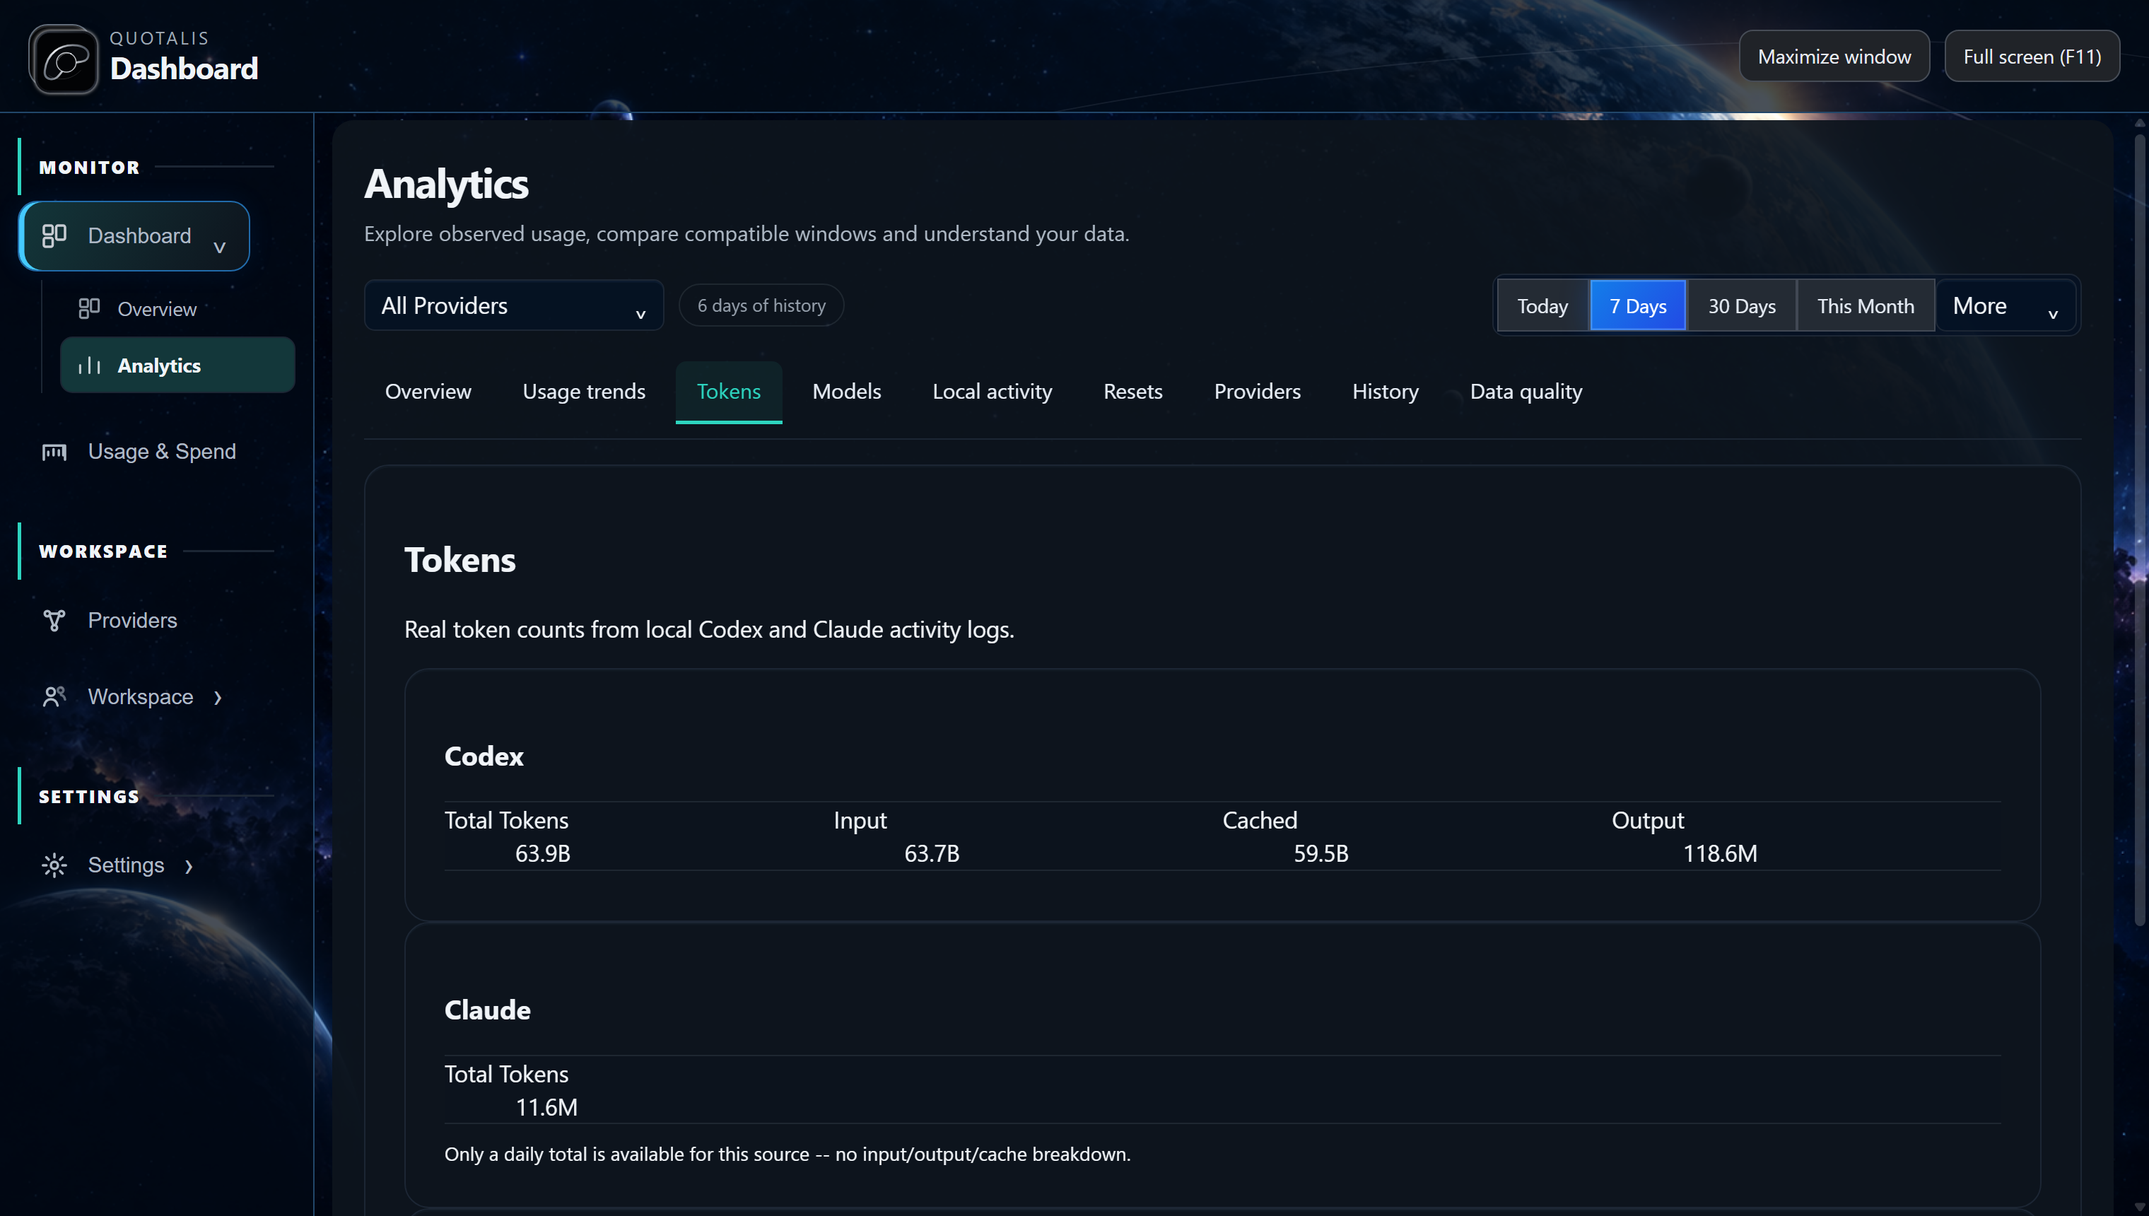
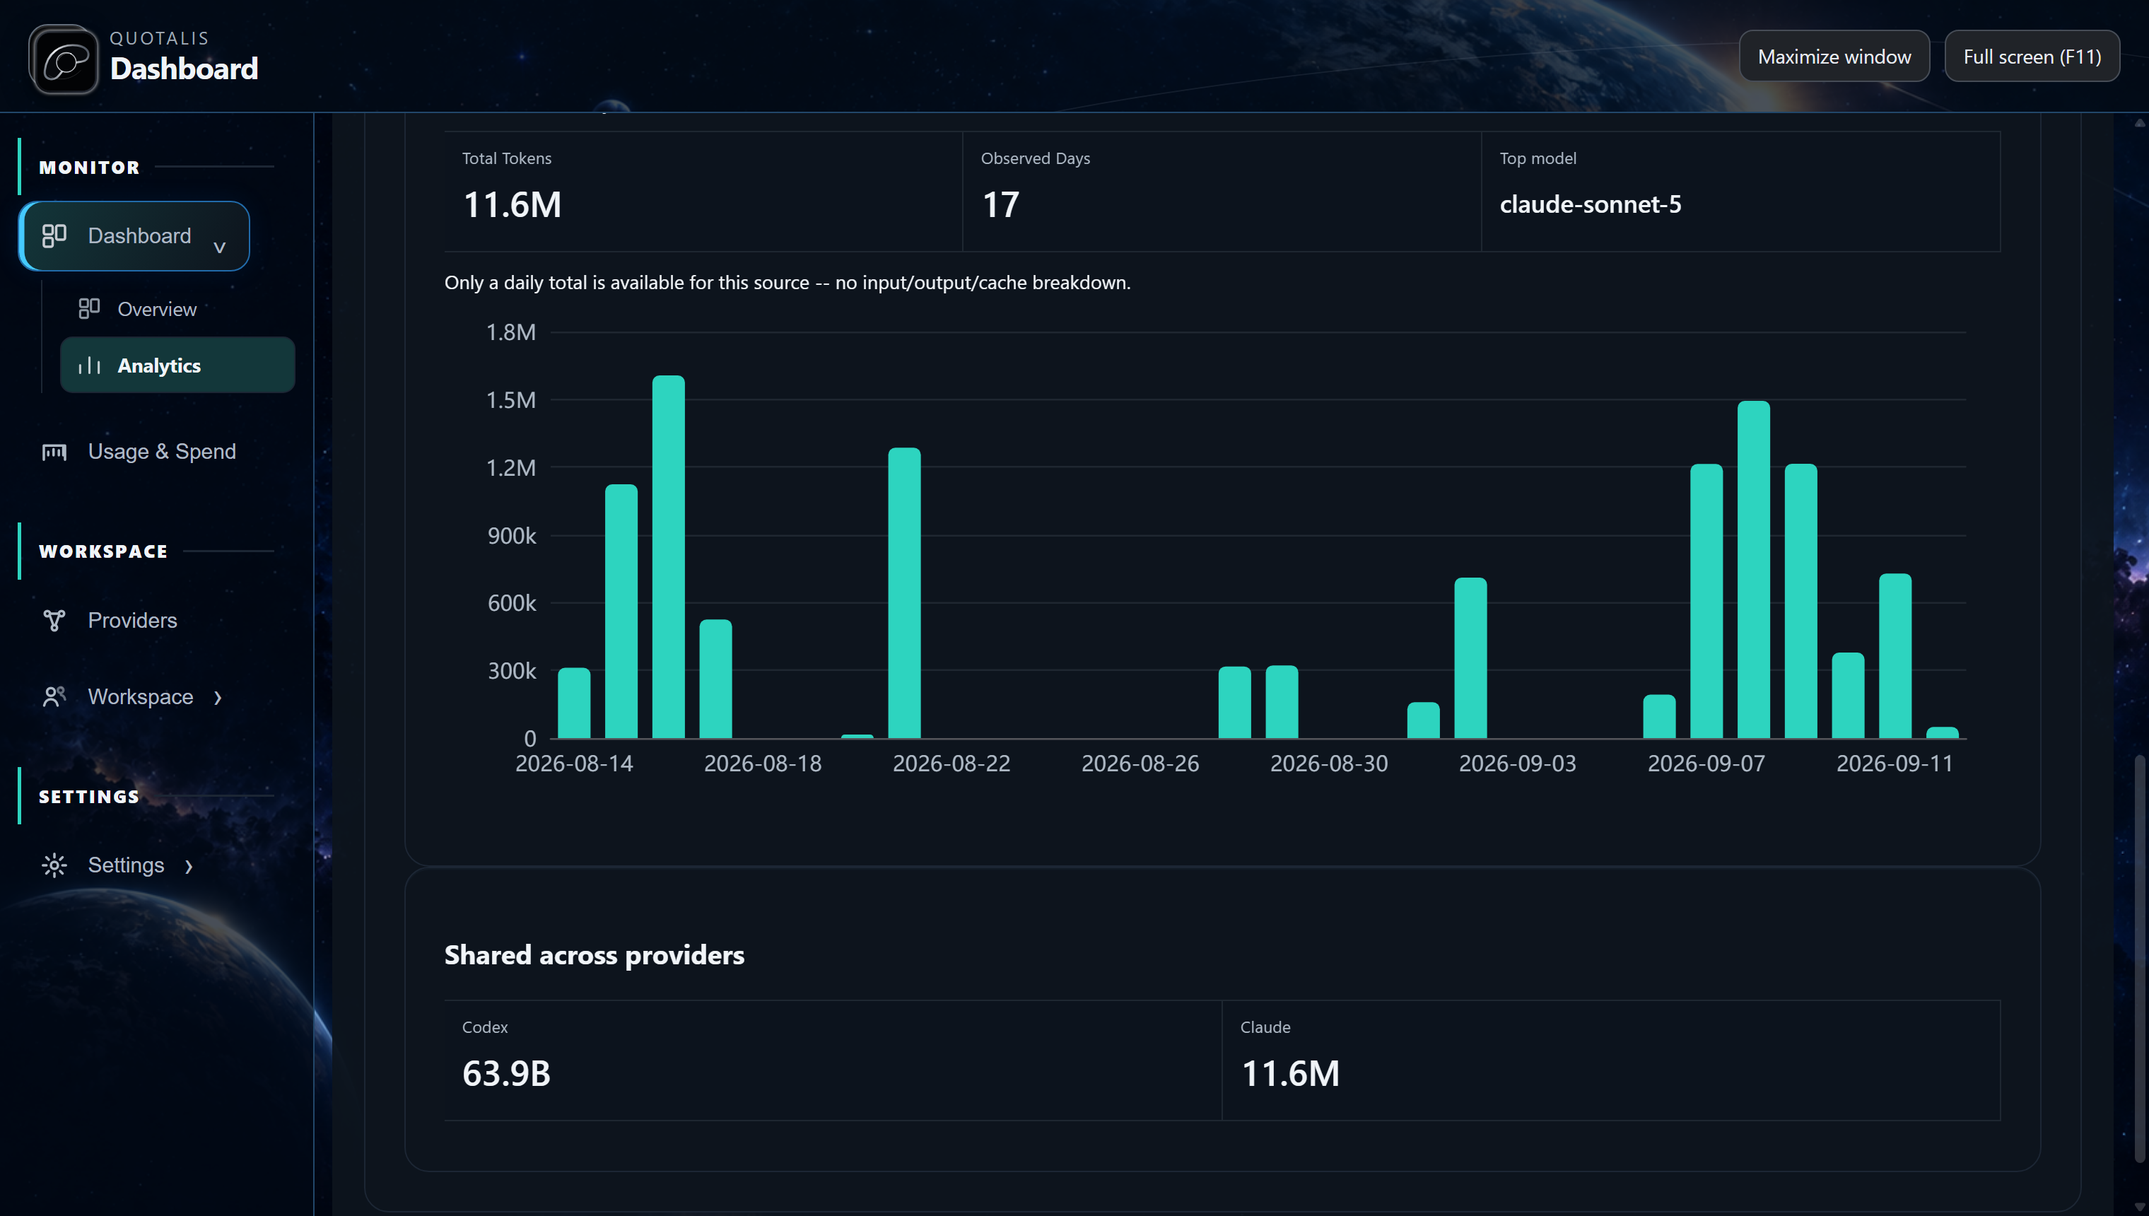
feat: evolve Token Analytics presentation
Root cause (same class as Overview, Phase 3I): TokenAnalytics.tsx's
ribbon cells were plain unstyled `<div>`s, never wired into the shared
`analytics-comparison-stat` grammar -- confirmed via native baseline
screenshot showing the exact same flat/no-hierarchy look Overview had
before that fix. Applied the same fix here.

Also found via native inspection: the shared ribbon's default
`repeat(auto-fit,minmax(180px,1fr))` only fits 4 columns at the panel's
real ~880px width, so a 6-field Codex card (Total/Input/Cached/Output/
Observed Days/Models) wrapped 2 cells onto an otherwise-empty second
row. Added a scoped `.token-analytics-provider` override at 140px
minimum so 6 fields fit one row -- same fix shape as Overview's ribbon,
recorded in the design contract as the established pattern.

Added real fields neither provider previously showed:
- Observed Days (days with nonzero activity in the 30-day window,
  computed identically from each provider's own real daily series --
  comparable, not fabricated).
- Models (Codex: real count from `getCodexWorkspacesSnapshot`'s
  `modelTotals`).
- Top model (Claude: real value from `getProviderChartData`'s
  `localUsage.topModel` -- Claude gets an intentional limited-but-real
  ribbon of Total/Observed Days/Top model plus its one existing
  concise capability note, never fake zero-valued Input/Cached/Output
  cards).

Added the primary token trend chart the page previously lacked
[…]

diff --git a/apps/desktop-tauri/src/surfaces/dashboard/analytics/TokenAnalytics.tsx b/apps/desktop-tauri/src/surfaces/dashboard/analytics/TokenAnalytics.tsx
@@ -1,47 +1,83 @@
-import { useEffect, useState } from 'react';
+import { lazy, Suspense, useEffect, useMemo, useState } from 'react';
 import { getCodexWorkspacesSnapshot, getProviderChartData } from '../../../lib/tauri';
 import type { CodexWorkspacesUsageTotals, SettingsSnapshot } from '../../../types/bridge';
 import { useLocale } from '../../../hooks/useLocale';
 import { useAnalyticsSources } from '../../../hooks/useAnalyticsSources';
 import { formatCompactTokens, formatExactTokens } from '../../../lib/analytics/formatTokens';
+import { useDashboardStructureTheme } from './useDashboardStructureTheme';
+import { activityBuckets } from './LocalActivity';
+import type { ChartSpec } from '../../../components/analytics/charts/chartSpec';
+const Chart = lazy(() => import('../../../components/analytics/charts/EChartsSurface'));
 
 /** Per-provider token totals, kept honest to what each source actually
  *  reports (docs/validation/LOCAL_ACTIVITY_FIELD_MATRIX.md):
  *  - Codex's own workspace index (`getCodexWorkspacesSnapshot`) exposes a
- *    real input/cached/output/total breakdown.
+ *    real input/cached/output/total breakdown plus a real model list.
  *  - Claude's chart-data bridge (`getProviderChartData`) exposes only a
- *    30-day total -- there is no input/output/cache split at this layer.
+ *    30-day total plus a top model -- there is no input/output/cache
+ *    split at this layer.
  *  `breakdown` is `null` when only a total is available; the UI must show
- *  a "no breakdown" note rather than a set of zero-valued cards. */
+ *  a "no breakdown" note rather than a set of zero-valued cards.
+ *  `daily` (real per-day totals, both providers) backs the trend chart;
+ *  there is no per-day input/output/cache split for either provider, so
+ *  the chart tooltip shows Total only -- never a fabricated daily
+ *  breakdown. `observedDays` counts days with real nonzero activity in
+ *  the 30-day window, computed identically for both providers from the
+ *  same `daily` array so the two numbers stay comparable. */
 interface ProviderTokenTotals {
   total: number | null;
   breakdown: CodexWorkspacesUsageTotals | null;
+  daily: { day: string; totalTokens: number }[];
+  observedDays: number;
+  modelCount: number | null;
+  topModel: string | null;
 }
 
 async function loadCodexTotals(): Promise<ProviderTokenTotals> {
-  const snapshot = await getCodexWorkspacesSnapshot({ historyDays: 30 });
-  return { total: snapshot.total.totalTokens, breakdown: snapshot.total };
+  const [snapshot, chart] = await Promise.all([
+    getCodexWorkspacesSnapshot({ historyDays: 30 }),
+    getProviderChartData('codex'),
+  ]);
+  const daily = chart.tokensHistory.map((p) => ({ day: p.date, totalTokens: p.tokens }));
+  return {
+    total: snapshot.total.totalTokens,
+    breakdown: snapshot.total,
+    daily,
+    observedDays: daily.filter((p) => p.totalTokens > 0).length,
+    modelCount: snapshot.modelTotals.length,
+    topModel: chart.localUsage?.topModel ?? null,
+  };
 }
 
 async function loadClaudeTotals(): Promise<ProviderTokenTotals> {
   const data = await getProviderChartData('claude');
-  const total = data.localUsage?.thirtyDayTokens ?? data.tokensHistory.reduce((sum, p) => sum + p.tokens, 0);
-  return { total, breakdown: null };
+  const daily = data.tokensHistory.map((p) => ({ day: p.date, totalTokens: p.tokens }));
+  const total = data.localUsage?.thirtyDayTokens ?? daily.reduce((sum, p) => sum + p.totalTokens, 0);
+  return {
+    total,
+    breakdown: null,
+    daily,
+    observedDays: daily.filter((p) => p.totalTokens > 0).length,
+    modelCount: null,
+    topModel: data.localUsage?.topModel ?? null,
+  };
 }
 
 /** Analytics -> Tokens. Capability-gated (owner: never render a tab a
  *  currently-available source cannot back). When a single provider is
- *  selected, shows that provider's real cards. When no provider is
- *  selected, shows the shared-field comparison across every available
- *  token-capable source -- Total only, since Total is the only field both
- *  Codex and Claude actually report (spec: never compare incompatible
- *  fields as if equivalent). */
-export default function TokenAnalytics({ providerId, isDemo }: { settings: SettingsSnapshot; providerId: string | null; isDemo: boolean }) {
+ *  selected, shows that provider's real cards + trend. When no provider
+ *  is selected, shows both providers plus the shared-field comparison
+ *  across every available token-capable source -- Total only, since
+ *  Total is the only field both Codex and Claude actually report (spec:
+ *  never compare incompatible fields as if equivalent). */
+export default function TokenAnalytics({ settings, providerId, isDemo }: { settings: SettingsSnapshot; providerId: string | null; isDemo: boolean }) {
   const { t } = useLocale();
   const { sources } = useAnalyticsSources();
+  const { theme } = useDashboardStructureTheme(settings);
   const [codex, setCodex] = useState<ProviderTokenTotals | null>(null);
   const [claude, setClaude] = useState<ProviderTokenTotals | null>(null);
   const [error, setError] = useState(false);
+  const [mode, setMode] = useState<'daily' | 'weekly'>('daily');
 
   const codexAvailable = !isDemo && sources.some((s) => s.id === 'codexLocalActivity' && s.availability === 'available' && s.capabilities.tokens);
   const claudeAvailable = !isDemo && sources.some((s) => s.id === 'claudeLocalActivity' && s.availability === 'available' && s.capabilities.tokens);
@@ -70,39 +106,87 @@ export default function TokenAnalytics({ providerId, isDemo }: { settings: Setti
     return () => { cancelled = true; };
   }, [showClaude]);
 
-  function tokenCard(labelKey: 'TokenCardTotal' | 'TokenCardInput' | 'TokenCardCached' | 'TokenCardOutput', value: number) {
-    return <div><dt>{t(labelKey)}</dt><dd title={formatExactTokens(value)}>{formatCompactTokens(value)}</dd></div>;
+  function tokenCell(labelKey: 'TokenCardTotal' | 'TokenCardInput' | 'TokenCardCached' | 'TokenCardOutput', value: number) {
+    return <div className="analytics-comparison-stat"><dt>{t(labelKey)}</dt><dd title={formatExactTokens(value)}>{formatCompactTokens(value)}</dd></div>;
+  }
+
+  function providerTrendChart(sourceLabel: string, totals: ProviderTokenTotals) {
+    const buckets = activityBuckets(totals.daily, mode);
+    const text = theme.material?.text ?? '#f0f4f8', muted = theme.material?.muted ?? '#aeb9c5';
+    const spec: ChartSpec = {
+      label: `${sourceLabel} · ${t('TokenTrendHeading')}`,
+      height: 220,
+      points: buckets.length,
+      empty: !buckets.length,
+      option: {
+        animation: false,
+        aria: { enabled: true },
+        grid: { left: 60, right: 20, top: 20, bottom: 50 },
+        tooltip: {
+          trigger: 'axis',
+          confine: true,
+          backgroundColor: theme.core,
+          borderColor: theme.coreEdge,
+          textStyle: { color: text },
+          formatter: (params: unknown) => {
+            const [p] = (Array.isArray(params) ? params : [params]) as { axisValue?: string; value?: number }[];
+            if (!p) return '';
+            const value = Number(p.value ?? 0);
+            return `<div><strong>${p.axisValue ?? ''}</strong><br/>${sourceLabel}<br/><small>${t('TokenScopeLocalDevice')}</small><br/>${t('TokenCardTotal')}: <b>${formatExactTokens(value)}</b></div>`;
+          },
+        },
+        xAxis: { type: 'category', data: buckets.map((p) => p.day), axisLabel: { color: muted, hideOverlap: true } },
+        yAxis: { type: 'value', min: 0, axisLabel: { color: muted, formatter: (v: number) => formatCompactTokens(v) }, splitLine: { lineStyle: { color: theme.hairline } } },
+        series: [{ type: 'bar', name: sourceLabel, data: buckets.map((p) => p.tokens), itemStyle: { color: theme.accent, borderRadius: [4, 4, 0, 0] }, barMaxWidth: 28 }],
+      },
+    };
+    return buckets.length
+      ? <Suspense fallback={<p>…</p>}><Chart spec={spec} unavailable={t('DashboardValueUnavailable')} /></Suspense>
+      : <p className="analytics-empty">{t('DashboardValueUnavailable')}</p>;
   }
 
   function providerCard(sourceLabel: string, totals: ProviderTokenTotals | null) {
     if (!totals) return <section className="analytics-section token-analytics-provider" key={sourceLabel}><header><h3><bdi>{sourceLabel}</bdi></h3></header><p role="status">…</p></section>;
     return (
       <section className="analytics-section token-analytics-provider" key={sourceLabel}>
-        <header><h3><bdi>{sourceLabel}</bdi></h3></header>
+        <header><h3><bdi>{sourceLabel}</bdi></h3><small className="analytics-note">{t('TokenScopeLocalDevice')}</small></header>
         <dl className="analytics-metric-ribbon">
-          {tokenCard('TokenCardTotal', totals.total ?? 0)}
-          {totals.breakdown && tokenCard('TokenCardInput', totals.breakdown.inputTokens)}
-          {totals.breakdown && tokenCard('TokenCardCached', totals.breakdown.cachedInputTokens)}
-          {totals.breakdown && tokenCard('TokenCardOutput', totals.breakdown.outputTokens)}
+          {tokenCell('TokenCardTotal', totals.total ?? 0)}
+          {totals.breakdown && tokenCell('TokenCardInput', totals.breakdown.inputTokens)}
+          {totals.breakdown && tokenCell('TokenCardCached', totals.breakdown.cachedInputTokens)}
+          {totals.breakdown && tokenCell('TokenCardOutput', totals.breakdown.outputTokens)}
+          <div className="analytics-comparison-stat"><dt>{t('TokenCardObservedDays')}</dt><dd>{totals.observedDays}</dd></div>
+          {totals.modelCount !== null && <div className="analytics-comparison-stat"><dt>{t('TokenCardModels')}</dt><dd>{totals.modelCount}</dd></div>}
+          {totals.modelCount === null && totals.topModel && <div className="analytics-comparison-stat"><dt>{t('PanelTopModelPrefix')}</dt><dd className="analytics-comparison-stat--text"><bdi>{totals.topModel}</bdi></dd></div>}
         </dl>
         {!totals.breakdown && <small className="analytics-note">{t('TokenNoBreakdownNote')}</small>}
+        {providerTrendChart(sourceLabel, totals)}
       </section>
     );
   }
+
+  const hasChartData = (showCodex && codex?.daily.length) || (showClaude && claude?.daily.length);
 
   return (
     <section className="analytics-section token-analytics">
       <header><h2>{t('V3Tokens')}</h2><p>{t('V3TokensHelp')}</p></header>
       {isDemo && <p className="analytics-empty">{t('V3ActivityDemo')}</p>}
       {error && <p role="status">{t('DashboardValueUnavailable')}</p>}
+      {!isDemo && hasChartData && (
+        <nav className="v3-section-nav" aria-label={t('TokenTrendHeading')}>
+          {(['daily', 'weekly'] as const).map((id) => (
+            <button type="button" key={id} aria-pressed={mode === id} onClick={() => setMode(id)}>{t(id === 'daily' ? 'V3Daily' : 'V3Weekly')}</button>
+          ))}
+        </nav>
+      )}
       {showCodex && providerCard('Codex', codex)}
       {showClaude && providerCard('Claude', claude)}
       {!providerId && showCodex && showClaude && codex && claude && (
         <section className="analytics-section token-analytics-compare">
           <header><h3>{t('TokenCompareHeading')}</h3></header>
           <dl className="analytics-metric-ribbon">
-            <div><dt>Codex</dt><dd title={formatExactTokens(codex.total ?? 0)}>{formatCompactTokens(codex.total ?? 0)}</dd></div>
-            <div><dt>Claude</dt><dd title={formatExactTokens(claude.total ?? 0)}>{formatCompactTokens(claude.total ?? 0)}</dd></div>
+            <div className="analytics-comparison-stat"><dt>Codex</dt><dd title={formatExactTokens(codex.total ?? 0)}>{formatCompactTokens(codex.total ?? 0)}</dd></div>
+            <div className="analytics-comparison-stat"><dt>Claude</dt><dd title={formatExactTokens(claude.total ?? 0)}>{formatCompactTokens(claude.total ?? 0)}</dd></div>
           </dl>
         </section>
       )}

diff --git a/apps/desktop-tauri/src/surfaces/dashboard/analytics/TokenAnalytics.test.tsx b/apps/desktop-tauri/src/surfaces/dashboard/analytics/TokenAnalytics.test.tsx
@@ -20,6 +20,13 @@ vi.mock("../../../hooks/useLocale", () => ({
         TokenCardCached: "Cached",
         TokenNoBreakdownNote: "Only a daily total is available for this source.",
         TokenCompareHeading: "Shared across providers",
+        TokenCardObservedDays: "Observed Days",
+        TokenCardModels: "Models",
+        TokenScopeLocalDevice: "Local device activity",
+        TokenTrendHeading: "Token trend",
+        PanelTopModelPrefix: "Top model",
+        V3Daily: "Daily",
+        V3Weekly: "Weekly",
         V3ActivityDemo: "Demo mode",
         DashboardValueUnavailable: "Unavailable",
       })[key] ?? key,
@@ -53,6 +60,11 @@ describe("TokenAnalytics", () => {
     tauriMocks.getAnalyticsSourceRegistry.mockResolvedValue([source()]);
     tauriMocks.getCodexWorkspacesSnapshot.mockResolvedValue({
       total: { inputTokens: 100, cachedInputTokens: 20, outputTokens: 50, totalTokens: 150 },
+      modelTotals: [{ model: "gpt-5", totalTokens: 150, lastObserved: null }],
+    });
+    tauriMocks.getProviderChartData.mockResolvedValue({
+      localUsage: { topModel: "gpt-5" },
+      tokensHistory: [],
     });
     render(<TokenAnalytics settings={settings} providerId="codex" isDemo={false} />);
     await waitFor(() => expect(screen.getByText("150")).toBeInTheDocument());
@@ -84,9 +96,10 @@ describe("TokenAnalytics", () => {
     ]);
     tauriMocks.getCodexWorkspacesSnapshot.mockResolvedValue({
       total: { inputTokens: 100, cachedInputTokens: 20, outputTokens: 50, totalTokens: 150 },
+      modelTotals: [{ model: "gpt-5", totalTokens: 150, lastObserved: null }],
     });
     tauriMocks.getProviderChartData.mockResolvedValue({
-      localUsage: { thirtyDayTokens: 4200 },
+      localUsage: { thirtyDayTokens: 4200, topModel: "claude-opus" },
       tokensHistory: [],
     });
     render(<TokenAnalytics settings={settings} providerId={null} isDemo={false} />);
@@ -107,7 +120,9 @@ describe("TokenAnalytics", () => {
     tauriMocks.getAnalyticsSourceRegistry.mockResolvedValue([source()]);
     tauriMocks.getCodexWorkspacesSnapshot.mockResolvedValue({
       total: { inputTokens: 63_747_046_211, cachedInputTokens: 59_510_984_827, outputTokens: 118_632_705, totalTokens: 63_865_678_916 },
+      modelTotals: [],
     });
+    tauriMocks.getProviderChartData.mockResolvedValue({ localUsage: null, tokensHistory: [] });
     render(<TokenAnalytics settings={settings} providerId="codex" isDemo={false} />);
     await waitFor(() => expect(screen.getByText("63.9B")).toBeInTheDocument());
     expect(screen.queryByText("63,865,678,916")).not.toBeInTheDocument();

diff --git a/apps/desktop-tauri/src/surfaces/dashboard/analytics/AnalyticsWorkstation.css b/apps/desktop-tauri/src/surfaces/dashboard/analytics/AnalyticsWorkstation.css
@@ -107,6 +107,15 @@
 .dashboard-analytics .analytics-overview-source__meta{font-size:9px;color:var(--qa-analytics-text-secondary);letter-spacing:.02em}
 @media(max-width:720px){.dashboard-analytics .analytics-overview-ribbon{grid-template-columns:repeat(2,minmax(0,1fr))}.dashboard-analytics .analytics-overview-sources{grid-template-columns:1fr}}
 
+/* Analytics -> Tokens: the shared 180px-minimum auto-fit in
+ * analyticsPrimitives.css leaves 2 trailing empty cells whenever a
+ * provider card has 5-6 real fields at the panel's typical ~880px width
+ * (4 columns fit, not 6) -- same asymmetric-row defect as Overview's
+ * ribbon, same fix: a narrower minimum so a 6-field card (Codex: Total/
+ * Input/Cached/Output/Observed Days/Models) fits one row. */
+.dashboard-analytics .token-analytics-provider .analytics-metric-ribbon{grid-template-columns:repeat(auto-fit,minmax(140px,1fr))}
+@media(max-width:720px){.dashboard-analytics .token-analytics-provider .analytics-metric-ribbon{grid-template-columns:repeat(2,minmax(0,1fr))}}
+
 .dashboard-analytics .reset-horizon__ticks{height:38px}.analytics-layout-editor>li[draggable=true]{cursor:grab}
 .dashboard-analytics .dashboard-limits__grid[data-provider-count="1"]{grid-template-columns:minmax(0,1fr)}
 .dashboard-analytics .dashboard-limits__grid[data-provider-count="2"]{grid-template-columns:repeat(2,minmax(0,1fr))}

diff --git a/apps/desktop-tauri/src/i18n/keys.ts b/apps/desktop-tauri/src/i18n/keys.ts
@@ -458,6 +458,10 @@ export const ALL_LOCALE_KEYS = [
   "TokenCardCached",
   "TokenNoBreakdownNote",
   "TokenCompareHeading",
+  "TokenCardObservedDays",
+  "TokenCardModels",
+  "TokenScopeLocalDevice",
+  "TokenTrendHeading",
   "V3Models",
   "V3ModelsHelp",
   "ModelColumnModel",

diff --git a/rust/src/locale.rs b/rust/src/locale.rs
@@ -770,6 +770,10 @@ locale_keys! {
     TokenCardCached,
     TokenNoBreakdownNote,
     TokenCompareHeading,
+    TokenCardObservedDays,
+    TokenCardModels,
+    TokenScopeLocalDevice,
+    TokenTrendHeading,
     // Analytics -> Models (capability-gated on AnalyticsCapabilities.models).
     // Codex-only real ranked breakdown (ModelUsage); Claude shows only its
     // single topModel guess with an explicit no-breakdown note -- see
